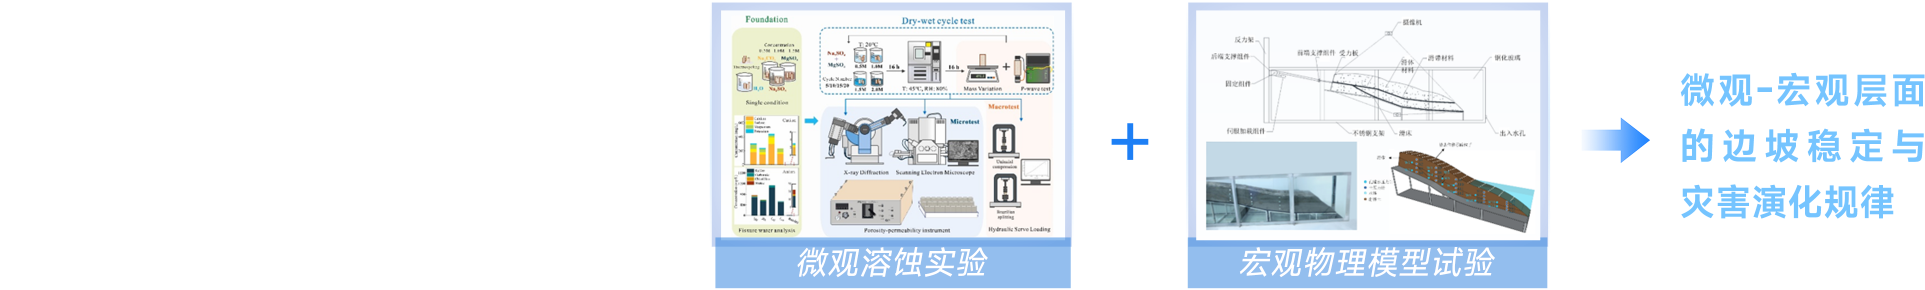
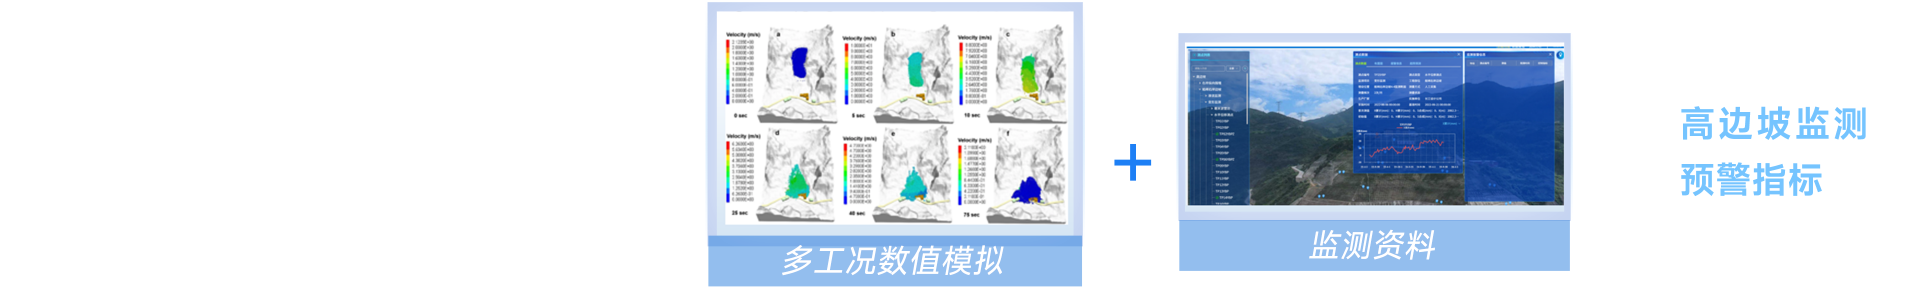
feat: 高边坡建模

diff --git a/packages/project/src/baima-research/views/top-left/index.vue b/packages/project/src/baima-research/views/top-left/index.vue
@@ -71,31 +71,17 @@ function asset(name: string) {
       </div>
     </transition>
 
-    <!-- 其他点位：研究目标 / 技术路线 / 研究课题 -->
+    <!-- slope：研究目标 / 技术路线 / 研究课题 -->
     <transition name="fade">
-      <div v-if="activeId === 'slope' && hasContent" class="tl__content tl__content--default">
-        <div class="tl__col tl__col--left">
-          <section class="tl__block tl__block--goal">
-            <img class="tl__title" :src="asset('left-top-title.png')" alt="研究目标" />
-            <div class="tl__row">
-              <img :src="asset('left-top-1.png')" alt="" />
-              <img :src="asset('left-top-2.png')" alt="" />
-            </div>
-          </section>
-          <section class="tl__block tl__block--topic">
-            <img class="tl__title" :src="asset('left-bottom-title.png')" alt="研究课题" />
-            <img class="tl__fill" :src="asset('left-bottom.png')" alt="" />
-          </section>
-        </div>
-        <div class="tl__col tl__col--right">
-          <section class="tl__block">
-            <img class="tl__title" :src="asset('right-title.png')" alt="技术路线" />
-            <img class="tl__fill" :src="asset('right-top.png')" alt="" />
-          </section>
-          <section class="tl__block">
-            <img class="tl__fill" :src="asset('right-bottom.png')" alt="" />
-          </section>
-        </div>
+      <div v-if="activeId === 'slope' && hasContent" class="tl__content tl__content--slope">
+        <img class="tl__slope sl-lt-title" :src="asset('left-top-title.png')" alt="" />
+        <img class="tl__slope sl-lt-1" :src="asset('left-top-1.png')" alt="" />
+        <img class="tl__slope sl-lt-2" :src="asset('left-top-2.png')" alt="" />
+        <img class="tl__slope sl-lb-title" :src="asset('left-bottom-title.png')" alt="" />
+        <img class="tl__slope sl-lb" :src="asset('left-bottom.png')" alt="" />
+        <img class="tl__slope sl-rt-title" :src="asset('right-title.png')" alt="" />
+        <img class="tl__slope sl-rt" :src="asset('right-top.png')" alt="" />
+        <img class="tl__slope sl-rb" :src="asset('right-bottom.png')" alt="" />
       </div>
     </transition>
 
@@ -234,6 +220,71 @@ function asset(name: string) {
         object-fit: contain;
         pointer-events: none;
         z-index: 3;
+      }
+    }
+
+    &--slope {
+      display: block;
+
+      .tl__slope {
+        position: absolute;
+        object-fit: contain;
+      }
+
+      .sl-lt-title {
+        left: d.w(224);
+        top: d.h(100);
+        width: d.w(1000);
+        height: d.h(50);
+      }
+
+      .sl-lt-1 {
+        left: d.w(224);
+        top: d.h(339);
+        width: d.w(1925);
+        height: d.h(290);
+      }
+
+      .sl-lt-2 {
+        left: d.w(224);
+        top: d.h(651);
+        width: d.w(1920);
+        height: d.h(290);
+      }
+
+      .sl-lb-title {
+        left: d.w(224);
+        top: d.h(800);
+        width: d.w(1000);
+        height: d.h(50);
+      }
+
+      .sl-lb {
+        left: d.w(224);
+        top: d.h(900);
+        width: d.w(1000);
+        height: d.h(500);
+      }
+
+      .sl-rt-title {
+        left: d.w(2425);
+        top: d.h(100);
+        width: d.w(1000);
+        height: d.h(50);
+      }
+
+      .sl-rt {
+        left: d.w(2425);
+        top: d.h(309);
+        width: d.w(1140);
+        height: d.h(678);
+      }
+
+      .sl-rb {
+        left: d.w(2734);
+        top: d.h(1237);
+        width: d.w(947);
+        height: d.h(680);
       }
     }
   }

diff --git a/packages/project/src/baima-research/views/bottom-left/index.vue b/packages/project/src/baima-research/views/bottom-left/index.vue
@@ -41,18 +41,16 @@ function asset(name: string) {
       </div>
     </transition>
 
-    <!-- 其他点位：核心创新点 -->
+    <!-- slope：核心创新点 -->
     <transition name="fade">
-      <div v-if="activeId === 'slope' && hasContent" class="bl__content bl__content--default">
-        <img class="bl__title" :src="asset('title.png')" alt="核心创新点" />
-        <div class="bl__grid">
-          <img :src="asset('left-1.png')" alt="" />
-          <img :src="asset('right-1.png')" alt="" />
-          <img :src="asset('left-2.png')" alt="" />
-          <img :src="asset('right-2.png')" alt="" />
-          <img :src="asset('left-3.png')" alt="" />
-          <img :src="asset('right-3.png')" alt="" />
-        </div>
+      <div v-if="activeId === 'slope' && hasContent" class="bl__content bl__content--slope">
+        <img class="bl__slope bl-st-title" :src="asset('title.png')" alt="" />
+        <img class="bl__slope bl-st-l1" :src="asset('left-1.png')" alt="" />
+        <img class="bl__slope bl-st-l2" :src="asset('left-2.png')" alt="" />
+        <img class="bl__slope bl-st-l3" :src="asset('left-3.png')" alt="" />
+        <img class="bl__slope bl-st-r1" :src="asset('right-1.png')" alt="" />
+        <img class="bl__slope bl-st-r2" :src="asset('right-2.png')" alt="" />
+        <img class="bl__slope bl-st-r3" :src="asset('right-3.png')" alt="" />
       </div>
     </transition>
 
@@ -131,6 +129,64 @@ function asset(name: string) {
         top: d.h(570);
         width: d.w(1219);
         height: d.h(1129);
+      }
+    }
+
+    &--slope {
+      display: block;
+
+      .bl__slope {
+        position: absolute;
+        object-fit: contain;
+      }
+
+      .bl-st-title {
+        left: d.w(258);
+        top: d.h(250);
+        height: d.h(80);
+        width: auto;
+      }
+
+      .bl-st-l1 {
+        left: d.w(258);
+        top: d.h(521);
+        width: d.w(1595);
+        height: d.h(413);
+      }
+
+      .bl-st-l2 {
+        left: d.w(258);
+        top: d.h(1039);
+        width: d.w(1595);
+        height: d.h(411);
+      }
+
+      .bl-st-l3 {
+        left: d.w(258);
+        top: d.h(1551);
+        width: d.w(1595);
+        height: d.h(413);
+      }
+
+      .bl-st-r1 {
+        left: d.w(1996);
+        top: d.h(521);
+        width: d.w(1595);
+        height: d.h(413);
+      }
+
+      .bl-st-r2 {
+        left: d.w(1996);
+        top: d.h(1039);
+        width: d.w(1595);
+        height: d.h(411);
+      }
+
+      .bl-st-r3 {
+        left: d.w(1996);
+        top: d.h(1551);
+        width: d.w(1595);
+        height: d.h(413);
       }
     }
   }

diff --git a/packages/project/src/baima-research/views/bottom-right/index.vue b/packages/project/src/baima-research/views/bottom-right/index.vue
@@ -41,16 +41,14 @@ function asset(name: string) {
       </div>
     </transition>
 
-    <!-- 其他点位：科研成果 -->
+    <!-- slope：科研成果 -->
     <transition name="fade">
-      <div v-if="activeId === 'slope' && hasContent" class="br__content br__content--default">
-        <img class="br__title" :src="asset('title.png')" alt="科研成果" />
-        <div class="br__list">
-          <img :src="asset('content-1.png')" alt="" />
-          <img :src="asset('content-2.png')" alt="" />
-          <img :src="asset('content-3.png')" alt="" />
-          <img :src="asset('content-4.png')" alt="" />
-        </div>
+      <div v-if="activeId === 'slope' && hasContent" class="br__content br__content--slope">
+        <img class="br__slope br-st-title" :src="asset('title.png')" alt="" />
+        <img class="br__slope br-st-1" :src="asset('content-1.png')" alt="" />
+        <img class="br__slope br-st-2" :src="asset('content-2.png')" alt="" />
+        <img class="br__slope br-st-3" :src="asset('content-3.png')" alt="" />
+        <img class="br__slope br-st-4" :src="asset('content-4.png')" alt="" />
       </div>
     </transition>
 
@@ -129,6 +127,50 @@ function asset(name: string) {
         top: d.h(143);
         width: d.w(1886);
         height: d.h(1958);
+      }
+    }
+
+    &--slope {
+      display: block;
+
+      .br__slope {
+        position: absolute;
+        object-fit: contain;
+      }
+
+      .br-st-title {
+        left: d.w(567);
+        top: d.h(250);
+        height: d.h(80);
+        width: auto;
+      }
+
+      .br-st-1 {
+        left: d.w(567);
+        top: d.h(545);
+        width: d.w(2516);
+        height: d.h(270);
+      }
+
+      .br-st-2 {
+        left: d.w(0);
+        top: d.h(915);
+        width: d.w(2516);
+        height: d.h(266);
+      }
+
+      .br-st-3 {
+        left: d.w(455);
+        top: d.h(1286);
+        width: d.w(2432);
+        height: d.h(263);
+      }
+
+      .br-st-4 {
+        left: d.w(973);
+        top: d.h(1656);
+        width: d.w(2474);
+        height: d.h(263);
       }
     }
   }

diff --git a/packages/project/src/baima-research/views/top-right/index.vue b/packages/project/src/baima-research/views/top-right/index.vue
@@ -39,15 +39,13 @@ function asset(name: string) {
       </div>
     </transition>
 
-    <!-- 其他点位：工程效益 -->
+    <!-- slope：工程效益 -->
     <transition name="fade">
-      <div v-if="activeId === 'slope' && hasContent" class="tr__content tr__content--default">
-        <img class="tr__title" :src="asset('title.png')" alt="工程效益" />
-        <div class="tr__row">
-          <img :src="asset('content-1.png')" alt="" />
-          <img :src="asset('content-2.png')" alt="" />
-          <img :src="asset('content-3.png')" alt="" />
-        </div>
+      <div v-if="activeId === 'slope' && hasContent" class="tr__content tr__content--slope">
+        <img class="tr__slope tr-st-title" :src="asset('title.png')" alt="" />
+        <img class="tr__slope tr-st-1" :src="asset('content-1.png')" alt="" />
+        <img class="tr__slope tr-st-2" :src="asset('content-2.png')" alt="" />
+        <img class="tr__slope tr-st-3" :src="asset('content-3.png')" alt="" />
       </div>
     </transition>
 
@@ -112,6 +110,43 @@ function asset(name: string) {
         top: d.h(615);
         width: d.w(3263);
         height: d.h(1256);
+      }
+    }
+
+    &--slope {
+      display: block;
+
+      .tr__slope {
+        position: absolute;
+        object-fit: contain;
+      }
+
+      .tr-st-title {
+        left: d.w(261);
+        top: d.h(250);
+        height: d.h(80);
+        width: auto;
+      }
+
+      .tr-st-1 {
+        left: d.w(261);
+        top: d.h(634);
+        width: d.w(999);
+        height: d.h(1000);
+      }
+
+      .tr-st-2 {
+        left: d.w(1426);
+        top: d.h(634);
+        width: d.w(999);
+        height: d.h(1000);
+      }
+
+      .tr-st-3 {
+        left: d.w(2588);
+        top: d.h(634);
+        width: d.w(999);
+        height: d.h(1000);
       }
     }
   }
